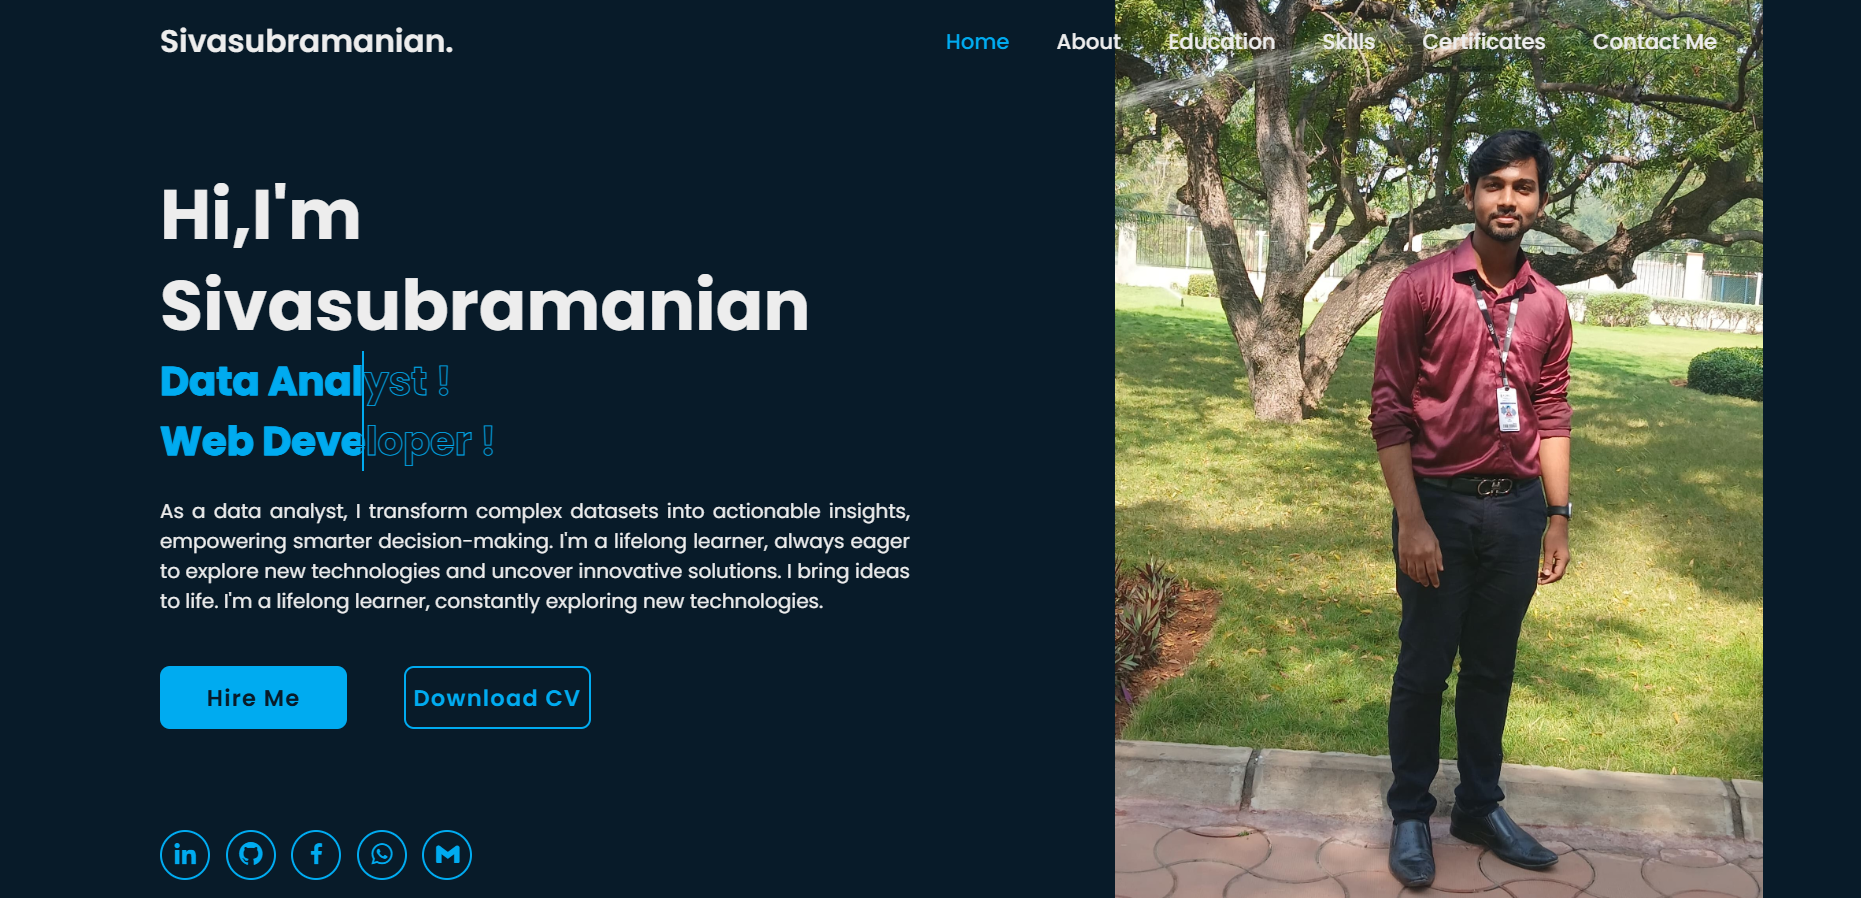
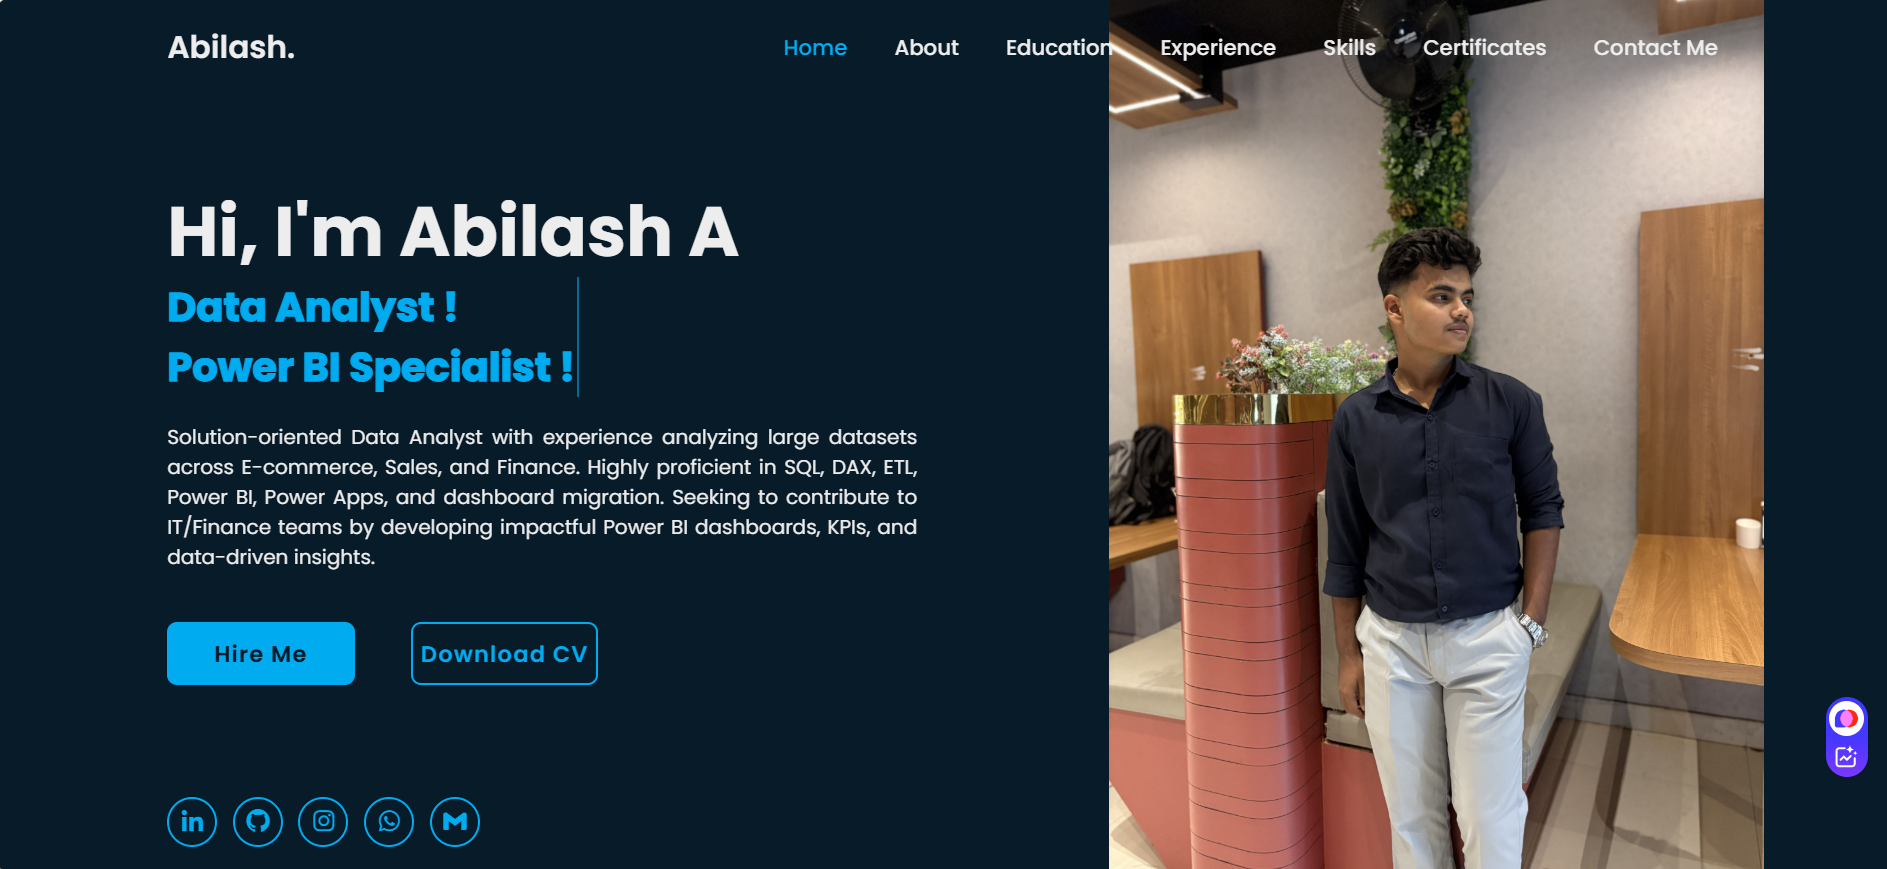
Fix GitHub Pages structure

diff --git a/index.html b/index.html
@@ -44,8 +44,8 @@
         <h1>Hi, I'm <span> Abilash A </span></h1>
         <!-- <span class="animate" style="--i:2;"></span> -->
         <div class="text-animate">
-          <h3> Data Analyst !<br> 
-               Power BI Specialist !
+          <h3> Data Analyst<br> 
+               Power BI Specialist
 
           </h3>
           <!-- <span class="animate" style="--i:3;"></span> -->

diff --git a/README.md b/README.md
@@ -1,6 +1,8 @@
-# 🌐 Personal Portfolio – Sivasubramanian S
+# 🌐 Personal Portfolio – Abilash A
 
-Welcome to my personal portfolio website built using **HTML, CSS, and JavaScript**. This site highlights my journey as a **Data Analyst** and **Web Developer**, showcasing my skills, education, certificates, and contact details in an interactive and professional format.
+Welcome to my personal portfolio website built using **HTML, CSS, and JavaScript**. This site highlights my journey as a **Data Analyst** and **Power BI Specialist**, showcasing my skills, education, work experience, certificates, and contact details in an interactive and professional format.
+
+**🔗 Live Demo:** [https://abilashgitac.github.io/github-portfolio/](https://abilashgitac.github.io/github-portfolio/)
 
 ![Portfolio Screenshot](assests/Screenshot%20(147).png)
 
@@ -10,22 +12,27 @@ Welcome to my personal portfolio website built using **HTML, CSS, and JavaScript
 
 This responsive portfolio website serves as a digital resume and portfolio, allowing visitors to explore:
 
-- Personal introduction
+- Personal introduction and career objective
 - Educational background
-- Technical skill set
-- Certifications
-- Project links
-- Contact information and social media
+- Professional work experience at WTT International
+- Comprehensive technical skill set (Power BI, SQL, Python, DAX)
+- 13 Professional certifications
+- Data analysis and dashboard projects
+- Multiple contact options and social media
 
 ---
 
 ## ✨ Features
 
-- 💼 Professionally designed home page
-- 🧾 Resume download option
-- 📜 Certifications and education timeline
+- 💼 Professionally designed home page with career objective
+- 🧾 Resume download option (Google Drive link)
+- 💻 Work experience section with detailed responsibilities
+- 📊 Comprehensive skills showcase (Power BI, Programming, Soft Skills)
+- 📜 13 Certifications with visual certificates
+- 🚀 Project portfolio with GitHub links
 - 📱 Responsive design (works on mobile and desktop)
-- 📧 Easy contact with social icons and links
+- 📧 Multiple contact methods (Email, WhatsApp, LinkedIn)
+- 🔒 Security-enhanced external links
 - 🌙 Dark themed aesthetic
 
 ---
@@ -38,9 +45,31 @@ This responsive portfolio website serves as a digital resume and portfolio, allo
 
 ---
 
+## 👨💼 Professional Profile
+
+**Name:** Abilash A  
+**Role:** Data Analyst & Power BI Specialist  
+**Location:** Tiruppur, Tamil Nadu, India  
+**Experience:** Currently working at WTT International (July 2024 - Present)  
+**Specialization:** Power BI, SQL, Python, DAX, IoT Data Analysis  
+
+---
+
+## 🎯 Key Sections
+
+1. **Home** - Introduction and career objective
+2. **About** - Personal background and expertise
+3. **Education** - Academic qualifications and projects
+4. **Experience** - Professional work experience and responsibilities
+5. **Skills** - Technical and soft skills categorized professionally
+6. **Certificates** - 13 professional certifications with images
+7. **Contact** - Multiple ways to get in touch
+
+---
+
 ## ▶ How to Use
 
 1. **Clone this repo**:
 ```bash
-git clone https://github.com/sivasubramanian2004/your-portfolio.git
-cd your-portfolio
+git clone https://github.com/ABILASHGITAC/github-portfolio.git
+cd github-portfolio
